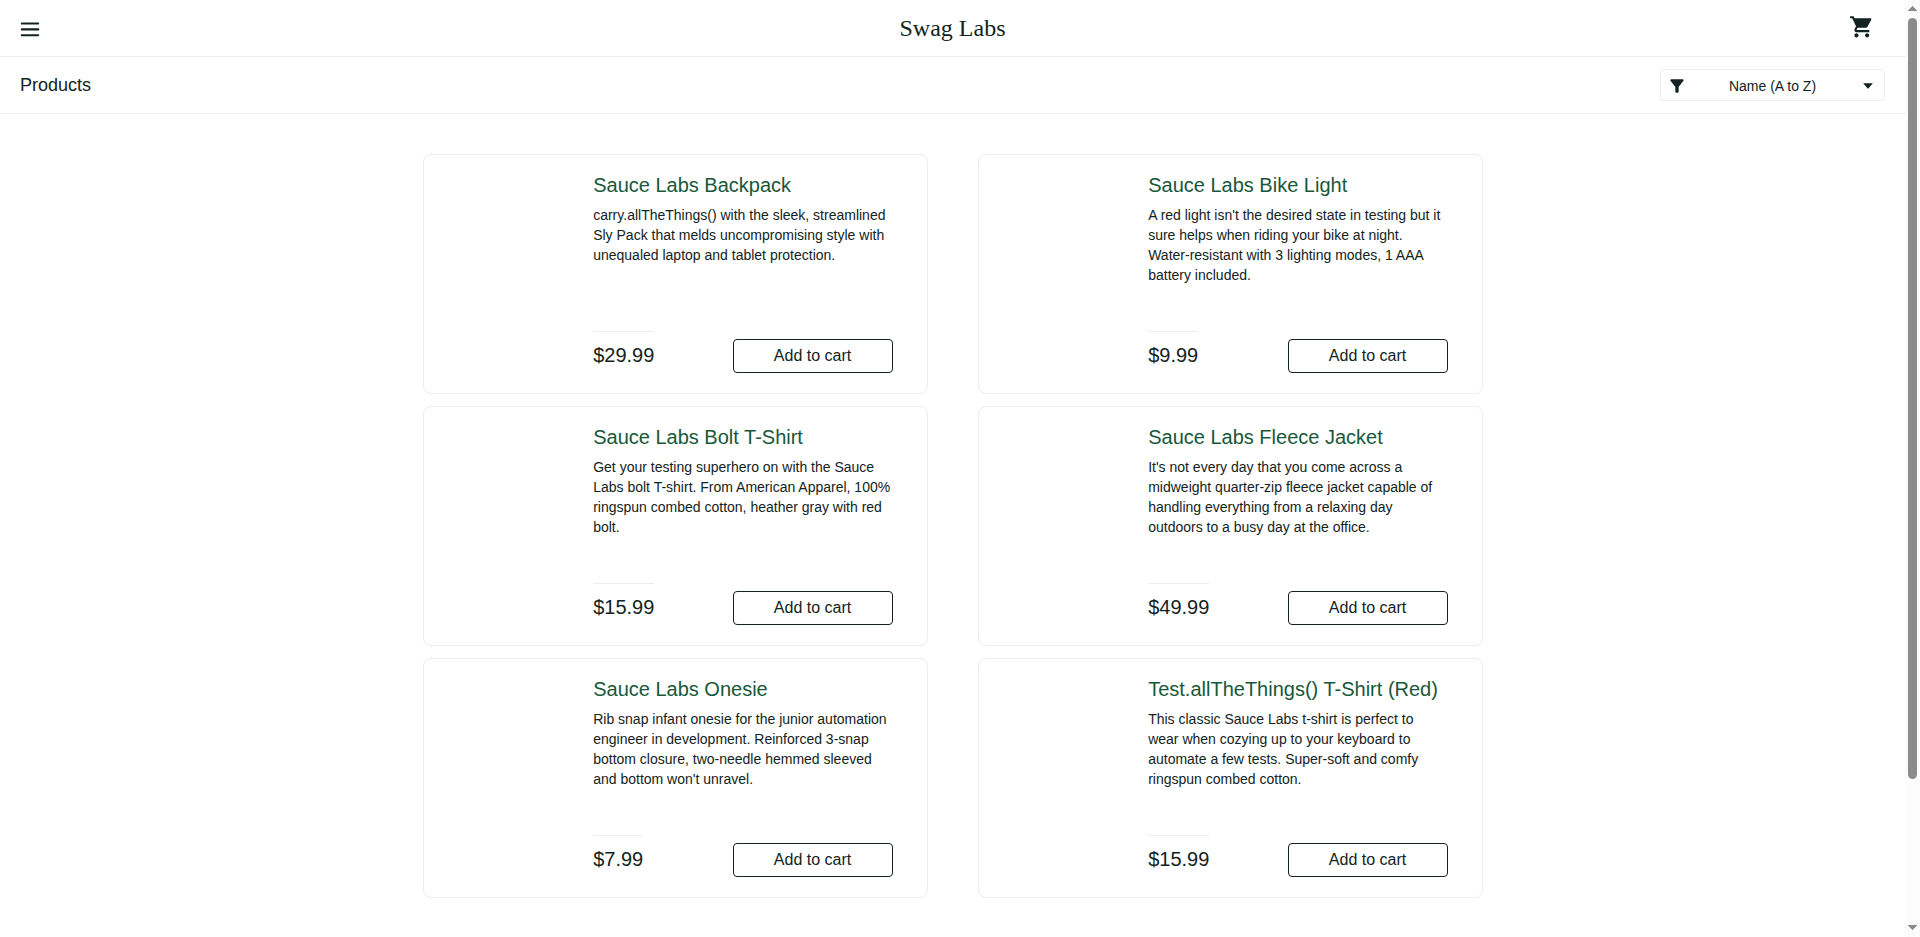
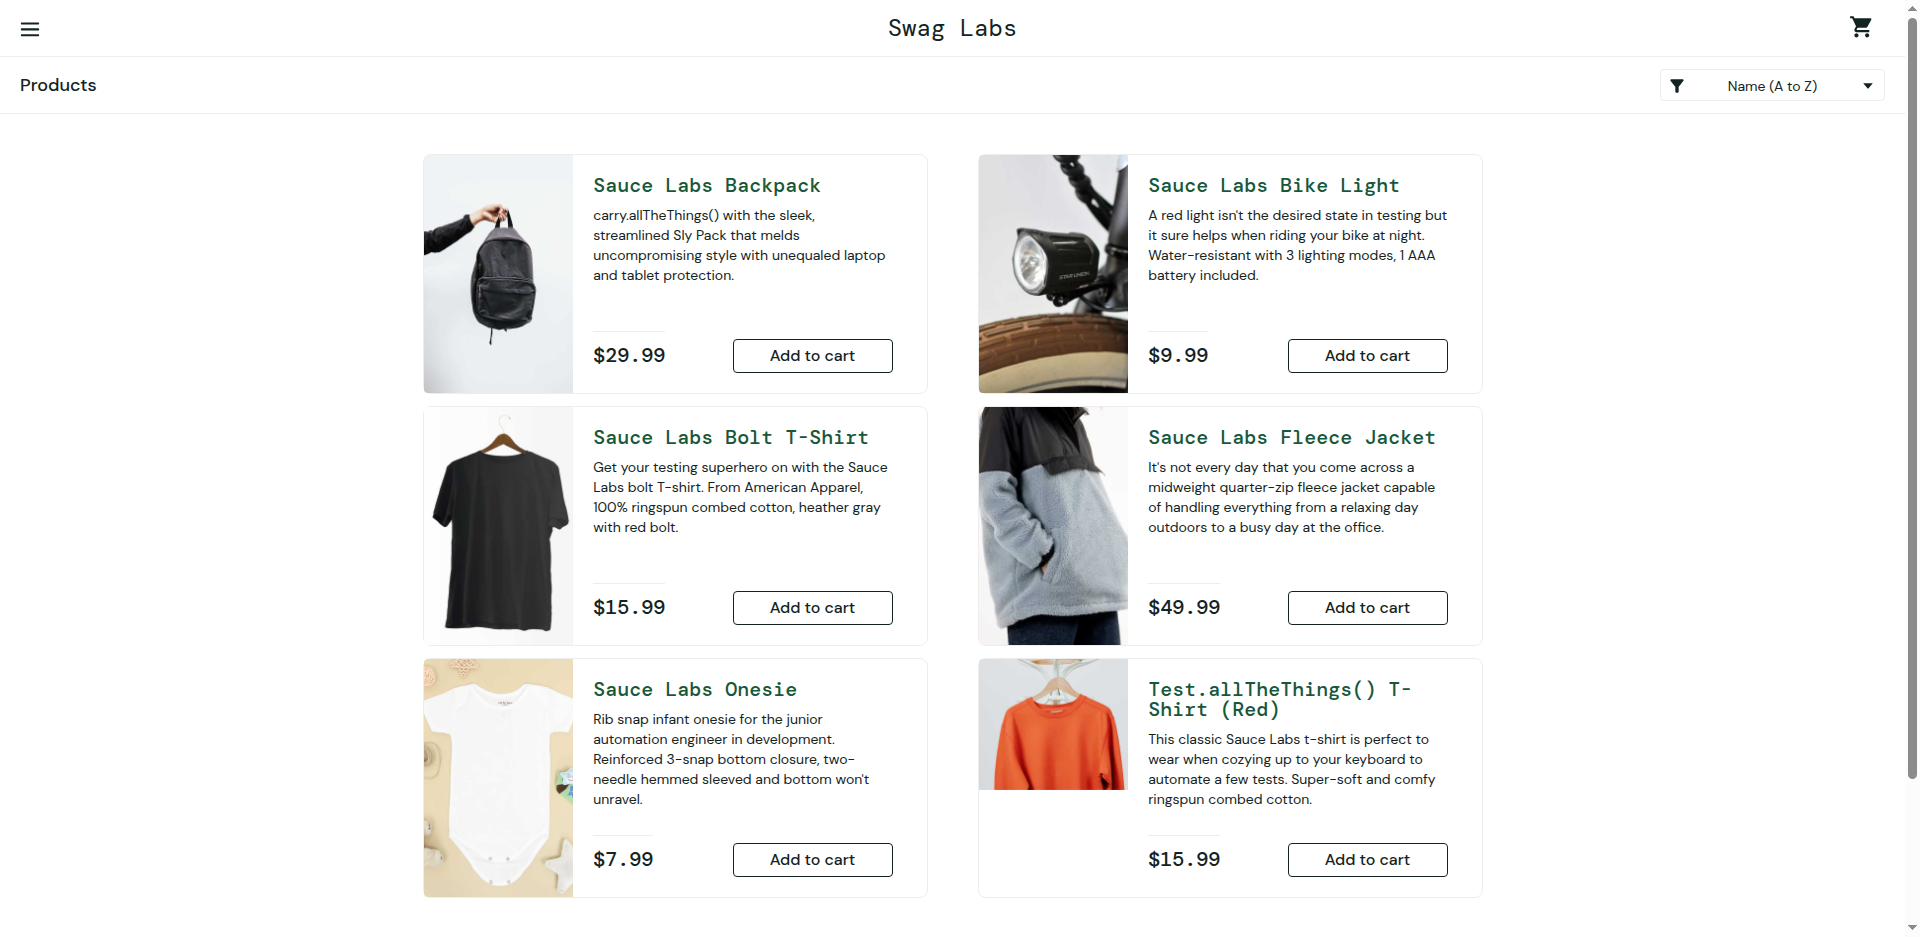
Pruebas de navegacióny funcionamiento

diff --git a/pages/checkout_page.py b/pages/checkout_page.py
@@ -1,0 +1,40 @@
+from selenium.webdriver.common.by import By
+from selenium.webdriver.support.ui import WebDriverWait
+from selenium.webdriver.support import expected_conditions as EC
+
+class CheckoutPage:
+    def __init__(self, driver):
+        self.driver = driver
+        self.checkout_button = (By.ID, "checkout")
+        self.first_name_input = (By.ID, "first-name")
+        self.last_name_input = (By.ID, "last-name")
+        self.postal_code_input = (By.ID, "postal-code")
+        self.continue_button = (By.ID, "continue")
+        self.finish_button = (By.ID, "finish")
+        self.success_message = (By.CLASS_NAME, "complete-header")
+
+    def ir_al_checkout(self):
+        WebDriverWait(self.driver, 10).until(
+            EC.element_to_be_clickable(self.checkout_button)
+        ).click()
+
+    def llenar_datos_envio(self, nombre, apellido, codigo_postal):
+        WebDriverWait(self.driver, 10).until(
+            EC.visibility_of_element_located(self.first_name_input)
+        ).send_keys(nombre)
+        self.driver.find_element(*self.last_name_input).send_keys(apellido)
+        self.driver.find_element(*self.postal_code_input).send_keys(codigo_postal)
+        self.driver.find_element(*self.continue_button).click()
+
+    def finalizar_compra(self):
+        # Espera explícita para asegurar que el botón Finish esté listo para recibir el clic
+        WebDriverWait(self.driver, 10).until(
+            EC.element_to_be_clickable(self.finish_button)
+        ).click()
+
+    def obtener_mensaje_exito(self):
+        # Espera explícita para asegurar que cargue la pantalla final de confirmación
+        elemento = WebDriverWait(self.driver, 10).until(
+            EC.visibility_of_element_located(self.success_message)
+        )
+        return elemento.text

diff --git a/pages/login_page.py b/pages/login_page.py
@@ -1,15 +1,18 @@
 from selenium.webdriver.common.by import By
+from selenium.webdriver.support.ui import WebDriverWait
+from selenium.webdriver.support import expected_conditions as EC
 
 class LoginPage:
     def __init__(self, driver):
         self.driver = driver
         self.url = "https://www.saucedemo.com/"
-        
-        # Localizadores de los elementos
         self.username_input = (By.ID, "user-name")
         self.password_input = (By.ID, "password")
         self.login_button = (By.ID, "login-button")
-        self.error_message = (By.CSS_SELECTOR, "h3[data-test='error']") # Corregido aquí
+        # El título de la página de inventario después del login exitoso
+        self.titulo_inventario = (By.CSS_SELECTOR, ".title")
+        # El contenedor del mensaje de error para logins fallidos
+        self.error_message = (By.CSS_SELECTOR, "h3[data-test='error']")
 
     def abrir(self):
         self.driver.get(self.url)
@@ -18,3 +21,17 @@ class LoginPage:
         self.driver.find_element(*self.username_input).send_keys(usuario)
         self.driver.find_element(*self.password_input).send_keys(password)
         self.driver.find_element(*self.login_button).click()
+
+    def obtener_titulo_productos(self):
+        # Espera explícita: espera máximo 10 segundos a que el elemento .title sea visible
+        elemento = WebDriverWait(self.driver, 10).until(
+            EC.visibility_of_element_located(self.titulo_inventario)
+        )
+        return elemento.text
+    
+    def obtener_error(self):
+        # Espera explícita para asegurar que el mensaje de error aparezca en pantalla
+        elemento = WebDriverWait(self.driver, 10).until(
+            EC.visibility_of_element_located(self.error_message)
+        )
+        return elemento.text

diff --git a/tests/test_checkout_completo.py b/tests/test_checkout_completo.py
@@ -1,0 +1,27 @@
+from pages.login_page import LoginPage
+from pages.inventory_page import InventoryPage
+from pages.checkout_page import CheckoutPage
+
+def test_flujo_compra_exitoso(driver):
+    # 1. Iniciar sesión
+    login_page = LoginPage(driver)
+    login_page.abrir()
+    login_page.iniciar_sesion("standard_user", "secret_sauce")
+
+    # 2. Agregar producto al carrito y navegar al carrito
+    inventory_page = InventoryPage(driver)
+    assert "Products" in inventory_page.obtener_titulo()
+    inventory_page.agregar_primer_producto()
+    inventory_page.ir_al_carrito()
+
+    # 3. Ir al Checkout y llenar los datos de envío
+    checkout_page = CheckoutPage(driver)
+    checkout_page.ir_al_checkout()
+    checkout_page.llenar_datos_envio("Emmanuel", "Calvo", "10101")
+
+    # 4. Finalizar la compra
+    checkout_page.finalizar_compra()
+
+    # 5. Validar el mensaje de éxito de la orden completada
+    mensaje_exito = checkout_page.obtener_mensaje_exito()
+    assert "Thank you for your order!" in mensaje_exito, f"El mensaje obtenido fue: {mensaje_exito}"

diff --git a/tests/test_compra.py b/tests/test_compra.py
@@ -1,0 +1,22 @@
+from pages.login_page import LoginPage
+from pages.inventory_page import InventoryPage
+
+def test_agregar_producto_al_carrito(driver):
+    # 1. Iniciar sesión con éxito
+    login_page = LoginPage(driver)
+    login_page.abrir()
+    login_page.iniciar_sesion("standard_user", "secret_sauce")
+
+    # 2. Interactuar con la página de inventario
+    inventory_page = InventoryPage(driver)
+    
+    # Validar que entramos a la tienda
+    assert "Products" in inventory_page.obtener_titulo()
+
+    # Agregar la mochila al carrito
+    inventory_page.agregar_primer_producto()
+    inventory_page.ir_al_carrito()
+
+    # Validar que estamos en el carrito (o que el producto fue añadido)
+    # Aquí puedes agregar una pequeña validación de URL o elementos del carrito
+    assert "cart.html" in driver.current_url

diff --git a/pages/inventory_page.py b/pages/inventory_page.py
@@ -1,0 +1,18 @@
+from selenium.webdriver.common.by import By
+
+class InventoryPage:
+    def __init__(self, driver):
+        self.driver = driver
+        # Localizadores
+        self.titulo_pagina = (By.CLASS_NAME, "title")
+        self.primer_producto_agregar = (By.ID, "add-to-cart-sauce-labs-backpack")
+        self.carrito_icono = (By.CLASS_NAME, "shopping_cart_link")
+
+    def obtener_titulo(self):
+        return self.driver.find_element(*self.titulo_pagina).text
+
+    def agregar_primer_producto(self):
+        self.driver.find_element(*self.primer_producto_agregar).click()
+
+    def ir_al_carrito(self):
+        self.driver.find_element(*self.carrito_icono).click()

diff --git a/tests/test_login_fallido.py b/tests/test_login_fallido.py
@@ -1,0 +1,15 @@
+from pages.login_page import LoginPage
+
+def test_login_usuario_bloqueado(driver):
+    login_page = LoginPage(driver)
+    login_page.abrir()
+    
+    # Intentar iniciar sesión con un usuario bloqueado en SauceDemo
+    login_page.iniciar_sesion("locked_out_user", "secret_sauce")
+    
+    # Obtener el mensaje de error que muestra la plataforma
+    mensaje_error = login_page.obtener_error()
+    
+    # Validar explícitamente que el sistema bloqueó el acceso con el mensaje correcto
+    assert "Epic sadface: Sorry, this user has been locked out." in mensaje_error, \
+        f"Error inesperado: Se obtuvo el mensaje -> '{mensaje_error}'"
